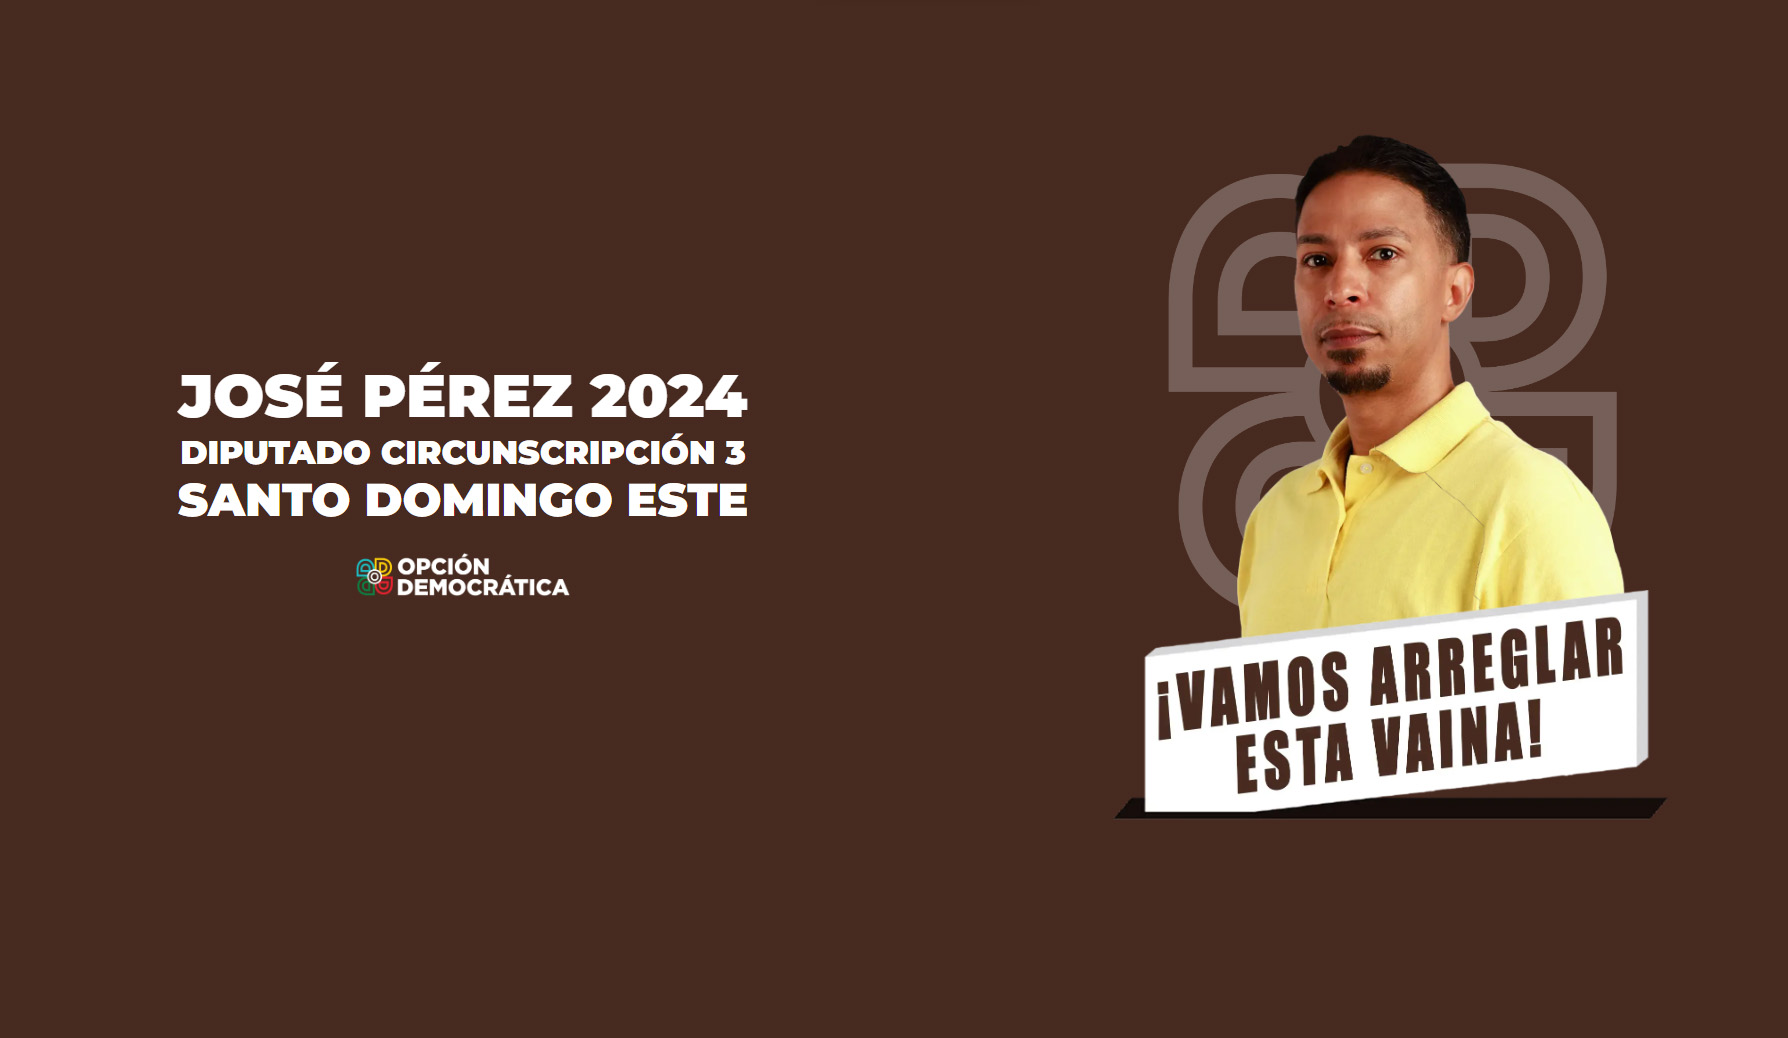
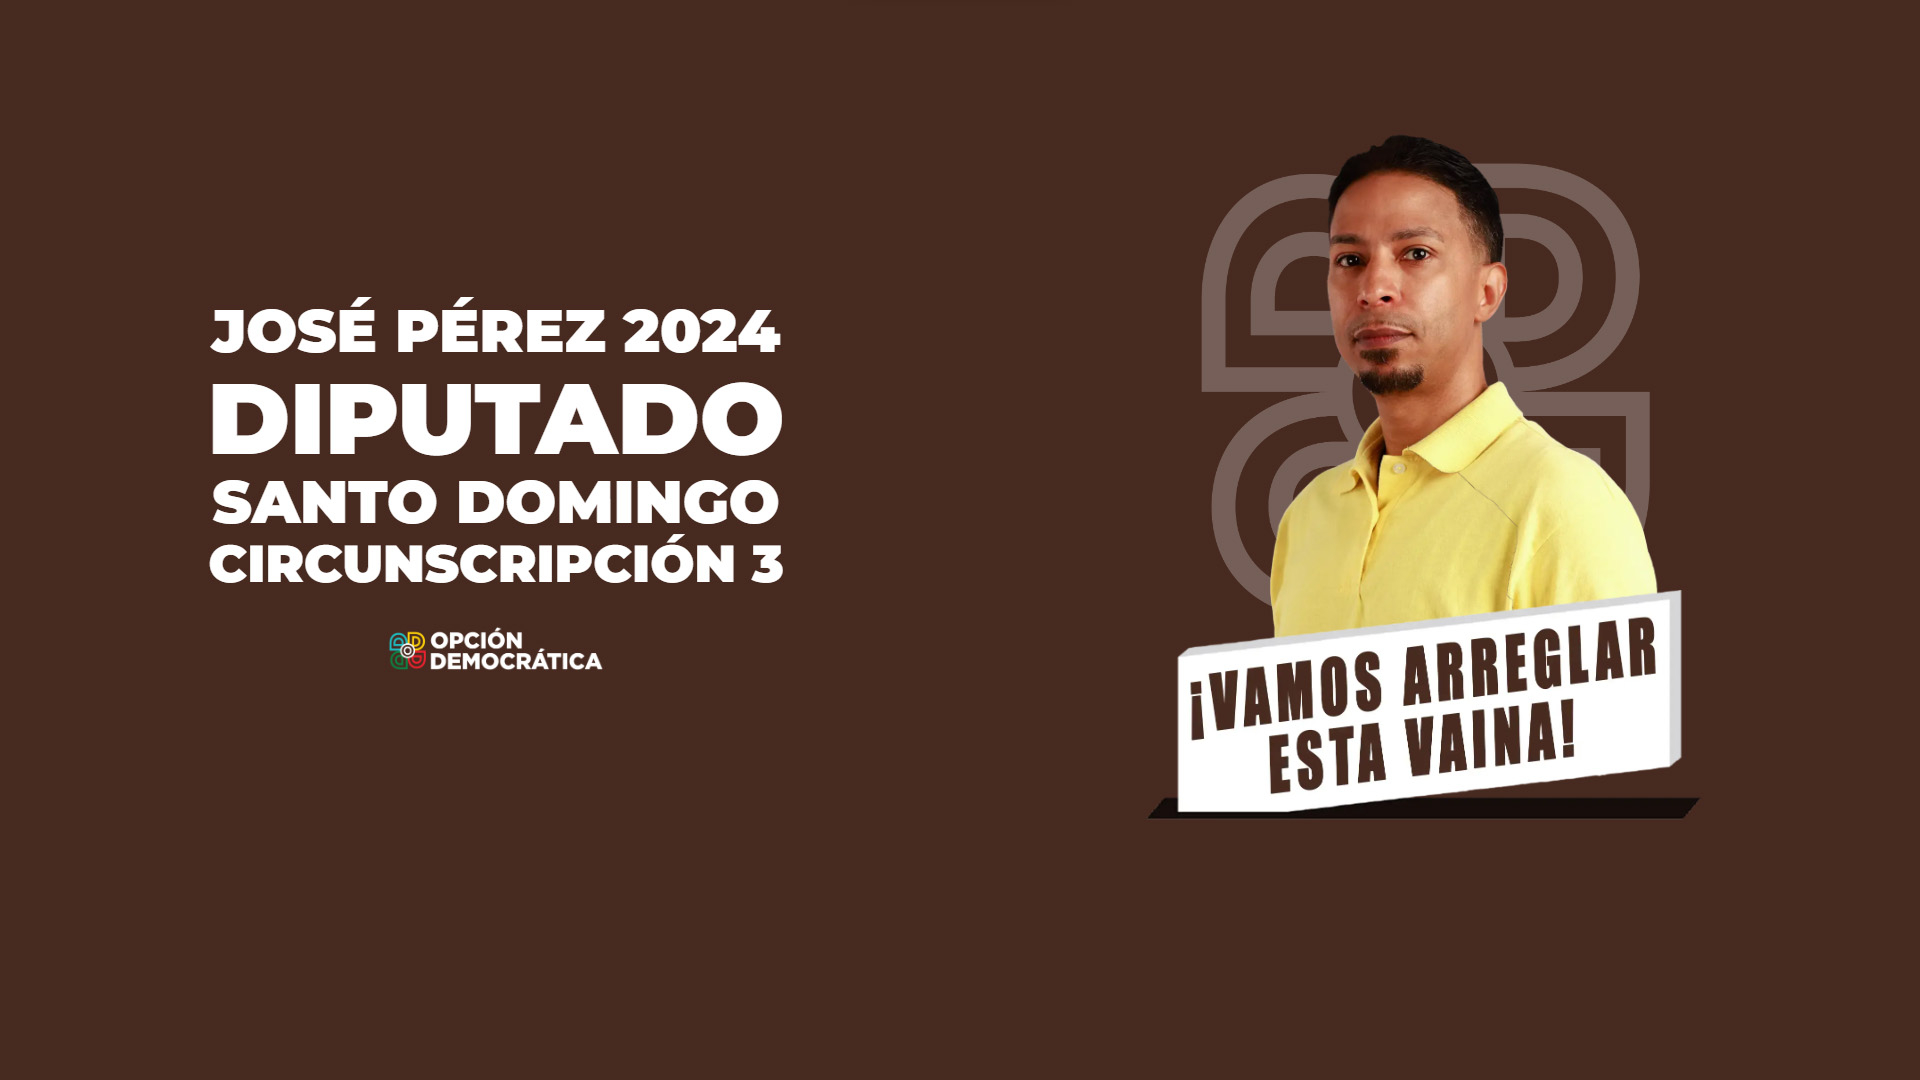
Update metadata, add robots.txt, and sitemap.xml | 2023-08-16

Changed region(s): [[0.5845, 0.1233, 0.9228, 0.8015], [0.0923, 0.2775, 0.4306, 0.6166]]

diff --git a/app/layout.tsx b/app/layout.tsx
@@ -10,6 +10,38 @@ import '@fortawesome/fontawesome-svg-core/styles.css'
 config.autoAddCss = false
 
 export const metadata: Metadata = {
+  generator: 'José Pérez 2024 | Diputado Santo Domingo Circunscripción 3',
+  applicationName: 'José Pérez 2024 | Diputado Santo Domingo Circunscripción 3',
+  authors: [
+    {
+      name: 'José Pérez 2024 | Diputado Santo Domingo Circunscripción 3',
+      url: 'https://joseperez2024.com',
+    },
+  ],
+  creator: 'José Pérez 2024 | Diputado Santo Domingo Circunscripción 3',
+  publisher: 'José Pérez 2024 | Diputado Santo Domingo Circunscripción 3',
+  referrer: 'origin-when-cross-origin',
+  metadataBase: new URL('https://joseperez2024.com'),
+  alternates: {
+    canonical: '/',
+    languages: {
+      es: '/es_DO',
+    },
+  },
+  keywords: [
+    'José Pérez',
+    '2024',
+    'Diputado',
+    'Santo Domingo',
+    'Circunscripción 3',
+    'República Dominicana',
+    '¡Vamos Arreglar Esta Vaina!',
+    'Salud',
+    'Seguridad',
+    'Educación',
+    'Combustibles',
+    'Vivienda',
+  ],
   title: 'José Pérez 2024 | Diputado Santo Domingo Circunscripción 3',
   description:
     'José Pérez 2024 Diputado, Santo Domingo Circunscripción 3, ¡Vamos Arreglar Esta Vaina! Salud, Seguridad, Educación, Combustibles, Vivienda',

diff --git a/components/home/YouTube.tsx b/components/home/YouTube.tsx
@@ -6,6 +6,7 @@ import { useEffect, useState } from 'react'
 import ReactPlayer, { YouTubeConfig } from 'react-player/youtube'
 
 import { ClientOnly } from '@/components'
+import { fadeIn, staggerContainer } from '@/utils/motion'
 
 const YouTube = () => {
   const playerProps = {
@@ -24,7 +25,13 @@ const YouTube = () => {
 
   return (
     <ClientOnly>
-      <motion.section className='jp-home-section-youtube relative flex flex-col justify-center items-center h-[65vw] my-5 '>
+      <motion.section
+        className='jp-home-section-youtube relative flex flex-col justify-center items-center h-[65vw] my-5 '
+        {...staggerContainer}
+        initial='hidden'
+        whileInView='show'
+        viewport={{ once: false, amount: 0.25 }}
+      >
         <div className=' jp-bg-logo-flag-outline absolute w-full inset-0' />
         <motion.div className='jp-reactplayer-youtube relative aspect-video w-full mx-auto flex flex-col justify-center items-center'>
           <ReactPlayer {...playerProps} />

diff --git a/components/home/Hero.tsx b/components/home/Hero.tsx
@@ -73,7 +73,7 @@ const Hero = () => {
             <motion.div className='w-full h-full' {...headContainerAnimation}>
               <motion.div className='relative aspect-[16/3] w-[40%] sm:w-[60%] mx-auto max-w-[240px]'>
                 <Image
-                  src={`https://res.cloudinary.com/dpsdypwrh/image/upload/v1691799730/jose-perez/opcion-democratica/jose-perez-2024-logo-opcion-democratica-text-white_dasmeb.png`}
+                  src={`https://res.cloudinary.com/dpsdypwrh/image/upload/v1692219636/jose-perez/opcion-democratica/jose-perez-2024-logo-opcion-democratica-all-white.svg`}
                   alt='José Pérez 2024 Diputado, Santo Domingo Circunscripción 3. ¡Vamos Arreglar Esta Vaina! | Opción Democrática'
                   fill
                   sizes='auto'

diff --git a/app/robots.ts b/app/robots.ts
@@ -1,0 +1,12 @@
+import { MetadataRoute } from 'next'
+
+const robots = (): MetadataRoute.Robots => ({
+  rules: {
+    userAgent: '*',
+    allow: '/',
+    disallow: ['/canvas/', '/customizer/'],
+  },
+  sitemap: 'https://joseperez2024.com/sitemap.xml',
+})
+
+export default robots

diff --git a/app/sitemap.ts b/app/sitemap.ts
@@ -1,0 +1,10 @@
+import { MetadataRoute } from 'next'
+
+const sitemap = (): MetadataRoute.Sitemap => [
+  {
+    url: 'https://joseperez2024.com',
+    lastModified: new Date(),
+  },
+]
+
+export default sitemap
